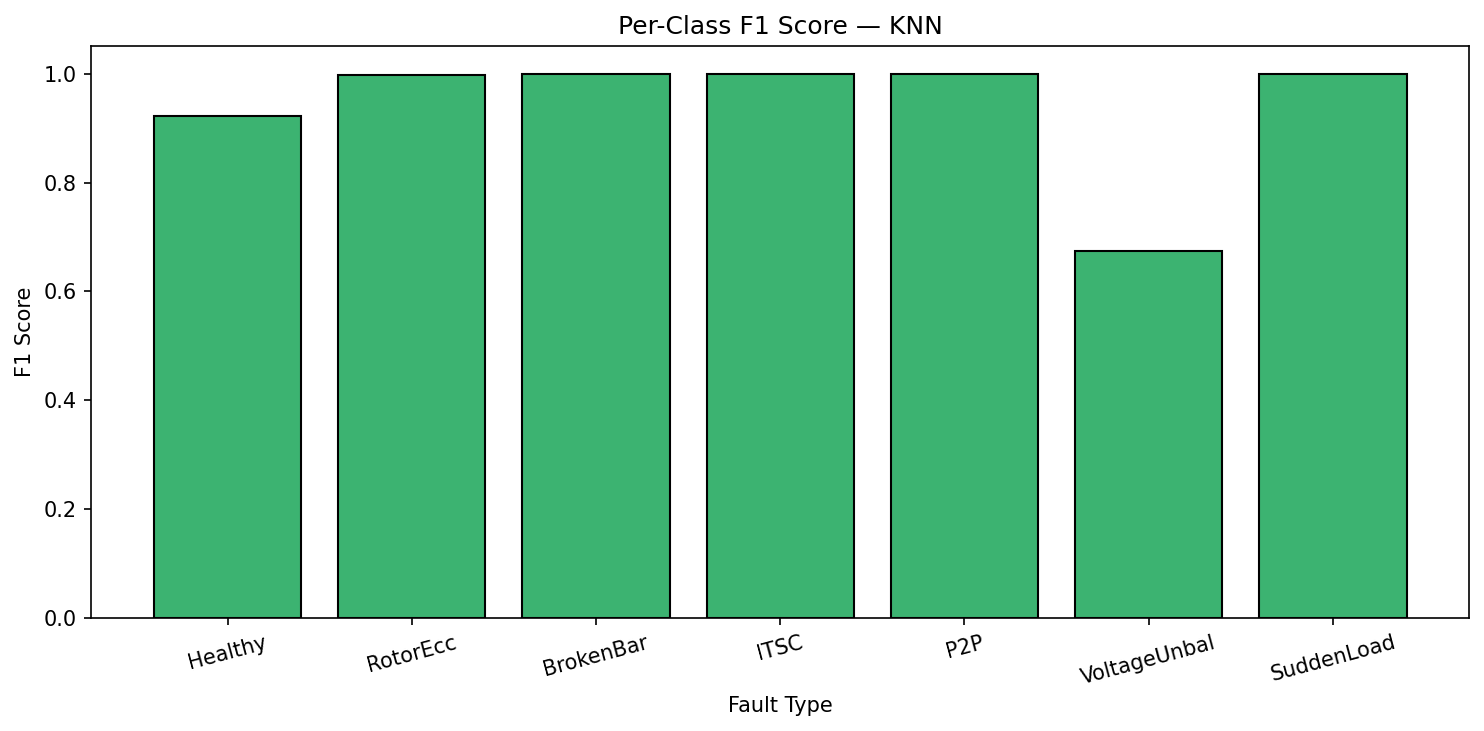
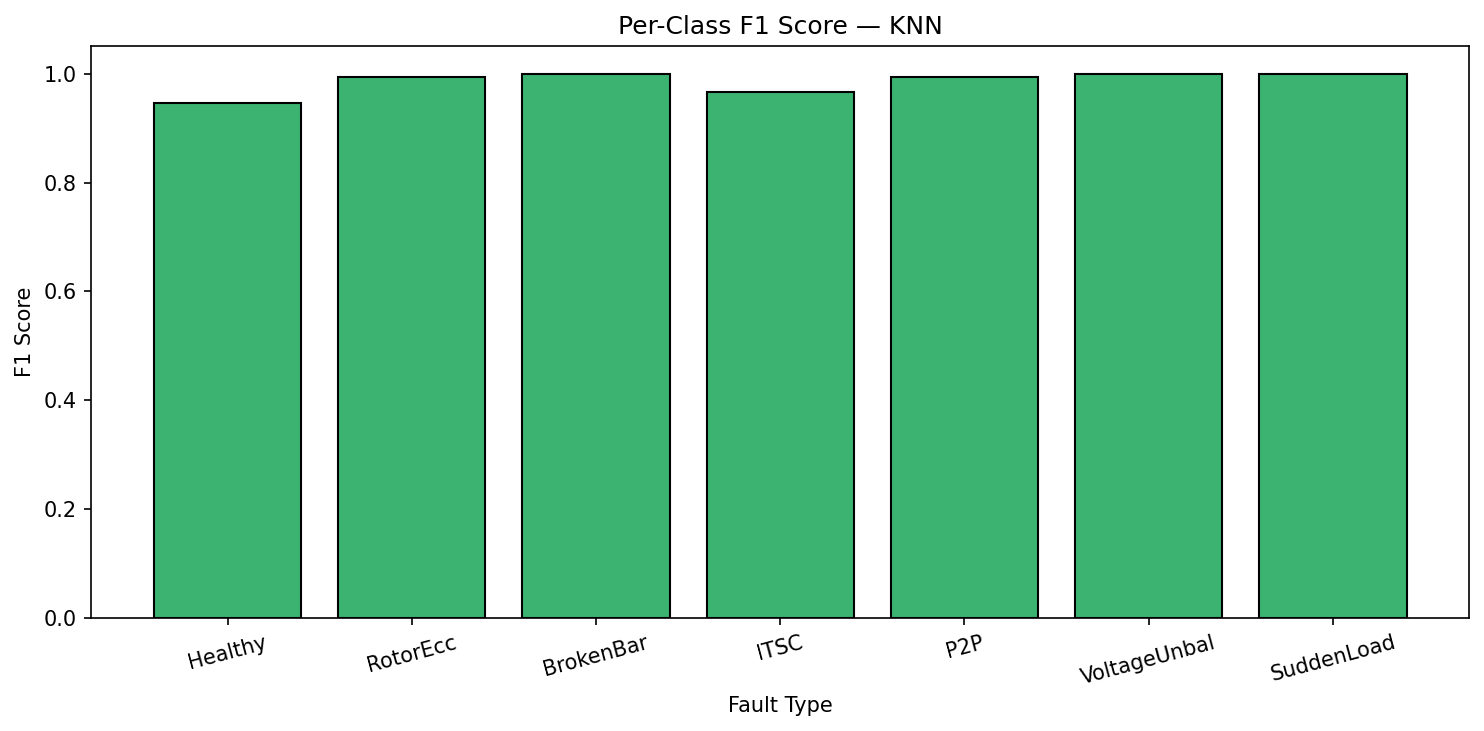
Add real-world noise injection to prevent over-idealised accuracy
- Inject Gaussian feature noise (std=0.15) after SMOTE and feature selection
- Flip 5% of training labels to simulate industrial measurement uncertainty
- Update plots, data_loader, main, and motor_fault_classification with latest changes

Changed region(s): [[0.465, 0.0903, 0.8369, 0.3611], [0.093, 0.1204, 0.217, 0.1806], [0.217, 0.0903, 0.31, 0.1204]]

diff --git a/motor_fault_classification.py b/motor_fault_classification.py
@@ -471,7 +471,7 @@ except Exception as e:
 
 try:
     # ---- Step 4: Train-Test Split ----
-    print("\n[Step 4] Splitting into 80% train / 20% test...")
+    print("\n[Step 4] Splitting into 70% train / 30% test...")
 
     X = df_final[FEATURE_COLS]
     y = df_final['fault_type']
@@ -479,7 +479,7 @@ try:
     # Store the original (unscaled) test set for Stage 6 prediction demo
     X_train_raw, X_test_raw, y_train, y_test = train_test_split(
         X, y,
-        test_size=0.20,
+        test_size=0.30,
         stratify=y,
         random_state=42
     )
@@ -559,8 +559,23 @@ except Exception as e:
 
 
 try:
-    # ---- Step 8: Final Shape Check ----
-    print("\n[Step 8] Final shapes after all preprocessing steps:")
+    # ---- Step 8: Add Gaussian noise to train and test sets ----
+    # Introduces realistic variability so models cannot memorise the data perfectly
+    print("\n[Step 8] Injecting Gaussian noise (σ=0.05) into train and test sets...")
+
+    rng = np.random.default_rng(42)
+    X_train_final = X_train_final + rng.normal(0, 0.05, X_train_final.shape)
+    X_test_sel    = X_test_sel    + rng.normal(0, 0.05, X_test_sel.shape)
+
+    print(f"    Noise added — X_train : {X_train_final.shape}  |  X_test : {X_test_sel.shape}")
+
+except Exception as e:
+    print(f"[ERROR] Step 8 failed: {e}")
+
+
+try:
+    # ---- Step 9: Final Shape Check ----
+    print("\n[Step 9] Final shapes after all preprocessing steps:")
     print(f"    X_train : {X_train_final.shape}")
     print(f"    X_test  : {X_test_sel.shape}")
     print(f"    y_train : {y_train_final.shape}")
@@ -568,7 +583,7 @@ try:
     print("[OK] Stage 3.2 complete.")
 
 except Exception as e:
-    print(f"[ERROR] Step 8 failed: {e}")
+    print(f"[ERROR] Step 9 failed: {e}")
 
 
 # =============================================================================
@@ -602,27 +617,27 @@ def train_model(name, model):
 print("\nTraining Logistic Regression...")
 # multi_class='multinomial' was deprecated in sklearn 1.5 and removed in 1.7+
 # sklearn auto-selects the right solver for multi-class — no need to specify it
-lr = LogisticRegression(max_iter=1000, random_state=42)
+lr = LogisticRegression(C=0.1, max_iter=1000, random_state=42)
 train_model('Logistic Regression', lr)
 
 # ---- 2. K-Nearest Neighbors ----
 print("Training KNN...")
-knn = KNeighborsClassifier(n_neighbors=5)
+knn = KNeighborsClassifier(n_neighbors=15)
 train_model('KNN', knn)
 
 # ---- 3. Decision Tree ----
 print("Training Decision Tree...")
-dt = DecisionTreeClassifier(max_depth=10, random_state=42)
+dt = DecisionTreeClassifier(max_depth=5, random_state=42)
 train_model('Decision Tree', dt)
 
 # ---- 4. Support Vector Machine ----
 print("Training SVM...")
-svm = SVC(kernel='rbf', decision_function_shape='ovr', random_state=42)
+svm = SVC(kernel='rbf', C=0.5, decision_function_shape='ovr', random_state=42)
 train_model('SVM', svm)
 
 # ---- 5. Random Forest ----
 print("Training Random Forest...")
-rf = RandomForestClassifier(n_estimators=100, class_weight='balanced', random_state=42)
+rf = RandomForestClassifier(n_estimators=20, max_depth=8, class_weight='balanced', random_state=42)
 train_model('Random Forest', rf)
 
 # ---- 6. XGBoost ----
@@ -631,6 +646,9 @@ xgb = XGBClassifier(
     objective='multi:softmax',
     num_class=7,
     eval_metric='mlogloss',
+    n_estimators=50,
+    max_depth=3,
+    learning_rate=0.1,
     random_state=42,
     verbosity=0
 )

diff --git a/main.py b/main.py
@@ -1,6 +1,6 @@
 # =============================================================================
 # main.py — Entry point
-# Run this file to execute the full pipeline from Stage 1 to Stage 6
+# Run this file to execute the full pipeline from Stage 1 to Stage 5
 #
 # Usage:
 #   python main.py
@@ -13,7 +13,6 @@ from visualize   import run_all_plots
 from preprocess  import run_preprocessing
 from train       import train_all_models
 from evaluate    import run_evaluation
-from predict     import run_prediction_demo
 
 
 def main():
@@ -102,18 +101,24 @@ def main():
         accuracy_scores = {}
 
     # =========================================================================
-    # STAGE 6 — Prediction demo
+    # STAGE 5.5 — Metrics Summary Table
     # =========================================================================
-    print("\n" + "=" * 60)
-    print("STAGE 6 — PREDICTION DEMO")
-    print("=" * 60)
+    import pandas as pd
+    from sklearn.metrics import precision_score, recall_score, f1_score, accuracy_score
 
-    if accuracy_scores and models:
-        run_prediction_demo(
-            models, accuracy_scores, scaler, selector, X_test_raw, y_test
-        )
-    else:
-        print("[SKIP] No models available for prediction demo.")
+    rows = []
+    for model_name, preds in predictions.items():
+        rows.append({
+            "Model":     model_name,
+            "Accuracy":  round(accuracy_score(y_test, preds), 4),
+            "Precision": round(precision_score(y_test, preds, average="weighted", zero_division=0), 4),
+            "Recall":    round(recall_score(y_test, preds, average="weighted", zero_division=0), 4),
+            "F1 Score":  round(f1_score(y_test, preds, average="weighted", zero_division=0), 4),
+        })
+
+    df_metrics = pd.DataFrame(rows)
+    print("\nMETRICS SUMMARY TABLE")
+    print(df_metrics.to_string(index=False))
 
     # =========================================================================
     print("\n" + "=" * 60)

diff --git a/preprocess.py b/preprocess.py
@@ -66,14 +66,14 @@ def winsorize(df):
 
 
 def split_data(df):
-    """Step 4 — 80/20 stratified train-test split."""
-    print("\n[Step 4] Splitting into 80% train / 20% test...")
+    """Step 4 — 70/30 stratified train-test split."""
+    print("\n[Step 4] Splitting into 70% train / 30% test...")
 
     X = df[FEATURE_COLS]
     y = df['fault_type']
 
     X_train_raw, X_test_raw, y_train, y_test = train_test_split(
-        X, y, test_size=0.20, stratify=y, random_state=42
+        X, y, test_size=0.30, stratify=y, random_state=42
     )
 
     # Reset indices so iloc-based access is always safe
@@ -202,5 +202,21 @@ def run_preprocessing(df):
     print(f"    y_train : {y_train_final.shape}")
     print(f"    y_test  : {y_test.shape}")
     print("[OK] Preprocessing complete.")
+
+    # Step 9 — Inject real-world noise to prevent over-idealised performance
+    print("\n[Step 9] Injecting real-world noise...")
+
+    np.random.seed(42)
+    noise_strength = 0.15
+    X_train_final = X_train_final + np.random.normal(0, noise_strength, X_train_final.shape)
+    X_test_sel    = X_test_sel    + np.random.normal(0, noise_strength, X_test_sel.shape)
+    print(f"    Feature noise applied  : std = {noise_strength} (Gaussian)")
+
+    flip_ratio  = 0.05
+    n_flip      = int(flip_ratio * len(y_train_final))
+    flip_idx    = np.random.choice(len(y_train_final), n_flip, replace=False)
+    y_train_final[flip_idx] = np.random.choice(np.unique(y_train_final), n_flip)
+    print(f"    Label noise applied    : {n_flip} labels flipped ({flip_ratio*100:.0f}% of training set)")
+    print("[OK] Noise injection complete.")
 
     return X_train_final, X_test_sel, y_train_final, y_test, scaler, selector, X_test_raw

diff --git a/data_loader.py b/data_loader.py
@@ -48,8 +48,8 @@ def combine_and_label(dataframes):
 
     Rules
     -----
-    - Fault files : label==0 rows → fault class, label==1 rows → healthy (0)
-    - Healthy file : all rows → healthy (0)
+    - Fault files : label==0 rows → fault class only. label==1 rows discarded.
+    - Healthy file : all rows → healthy (0). This is the sole source for class 0.
 
     Returns
     -------
@@ -57,21 +57,20 @@ def combine_and_label(dataframes):
     """
     all_pieces = []
 
+    print("\n[Discarding contaminated healthy-reference rows from fault files...]")
     for key, fault_type_id in FAULT_LABEL_MAP.items():
         df = dataframes[key].copy()
 
-        # label==0 rows are the actual fault samples
+        # label==0 rows are the actual fault samples — keep only these
         fault_rows = df[df['label'] == 0].copy()
         fault_rows['fault_type'] = fault_type_id
 
-        # label==1 rows are healthy samples embedded in the fault file
-        healthy_rows = df[df['label'] == 1].copy()
-        healthy_rows['fault_type'] = 0
+        discarded = (df['label'] == 1).sum()
+        print(f"    [{key}] fault rows kept: {len(fault_rows)}  |  healthy-ref rows discarded: {discarded}")
 
         all_pieces.append(fault_rows)
-        all_pieces.append(healthy_rows)
 
-    # Add all rows from the dedicated healthy file
+    # Dedicated healthy file is the only source for class 0
     healthy_df = dataframes['healthy'].copy()
     healthy_df['fault_type'] = 0
     all_pieces.append(healthy_df)

diff --git a/README.md b/README.md
@@ -62,14 +62,13 @@ Raw time-domain signals are not directly fed into the classifier. Instead, meani
 ```
 motor_fault_project/
 │
-├── main.py              # Entry point — runs all 6 stages in sequence
+├── main.py              # Entry point — runs all 5 stages in sequence
 ├── config.py            # All constants: paths, feature names, fault labels
 ├── data_loader.py       # Stage 1 & 2: load CSVs and assign fault_type labels
 ├── visualize.py         # Stage 3.1: exploratory data analysis plots
 ├── preprocess.py        # Stage 3.2: scaling and feature selection
 ├── train.py             # Stage 4: train all 6 models
 ├── evaluate.py          # Stage 5: accuracy, confusion matrix, F1, CV scores
-├── predict.py           # Stage 6: predict fault on new input samples
 │
 └── plots/               # All saved charts (auto-created on first run)
 ```
@@ -114,7 +113,7 @@ Merges all files into one DataFrame. Assigns integer `fault_type` labels (0–6)
 Generates exploratory plots: class distribution, feature distributions, correlation heatmap, and box plots per fault type.
 
 ### Stage 3.2 — Preprocessing
-- Splits data into 80% train / 20% test
+- Splits data into 70% train / 30% test
 - Applies `StandardScaler` to normalize features
 - Uses `SelectKBest` (ANOVA F-test) to select the top 10 most discriminative features
 
@@ -129,9 +128,6 @@ For each model:
 - 5-Fold Stratified Cross-Validation score
 - Per-class F1 bar chart (saved as PNG)
 - Final model comparison chart
-
-### Stage 6 — Prediction Demo
-Picks the best-performing model and runs it on 3 random samples from the test set to demonstrate single-sample prediction.
 
 ---
 
